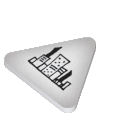
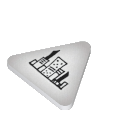
update objects to new tooling versions

diff --git a/src/setup/setup-resource-area/setup-resources.ts b/src/setup/setup-resource-area/setup-resources.ts
@@ -1,4 +1,4 @@
-import { Card, Dice, GameObject, ObjectType } from "@tabletop-playground/api";
+import { Card, GameObject, ObjectType } from "@tabletop-playground/api";
 import { AbstractSetup, LayoutObjects, Spawn } from "ttpg-darrell";
 
 export class SetupResources extends AbstractSetup {

diff --git a/src/setup/setup-resource-area/setup-dice.ts b/src/setup/setup-resource-area/setup-dice.ts
@@ -7,6 +7,7 @@ export class SetupDice extends AbstractSetup {
     constructor() {
         super();
         this._mat = Spawn.spawnOrThrow("mat:base/dice", [0, 0, 0]);
+        this._mat.setRotation([0, -90, 0]);
     }
 
     getLayoutObjects(): LayoutObjects {
